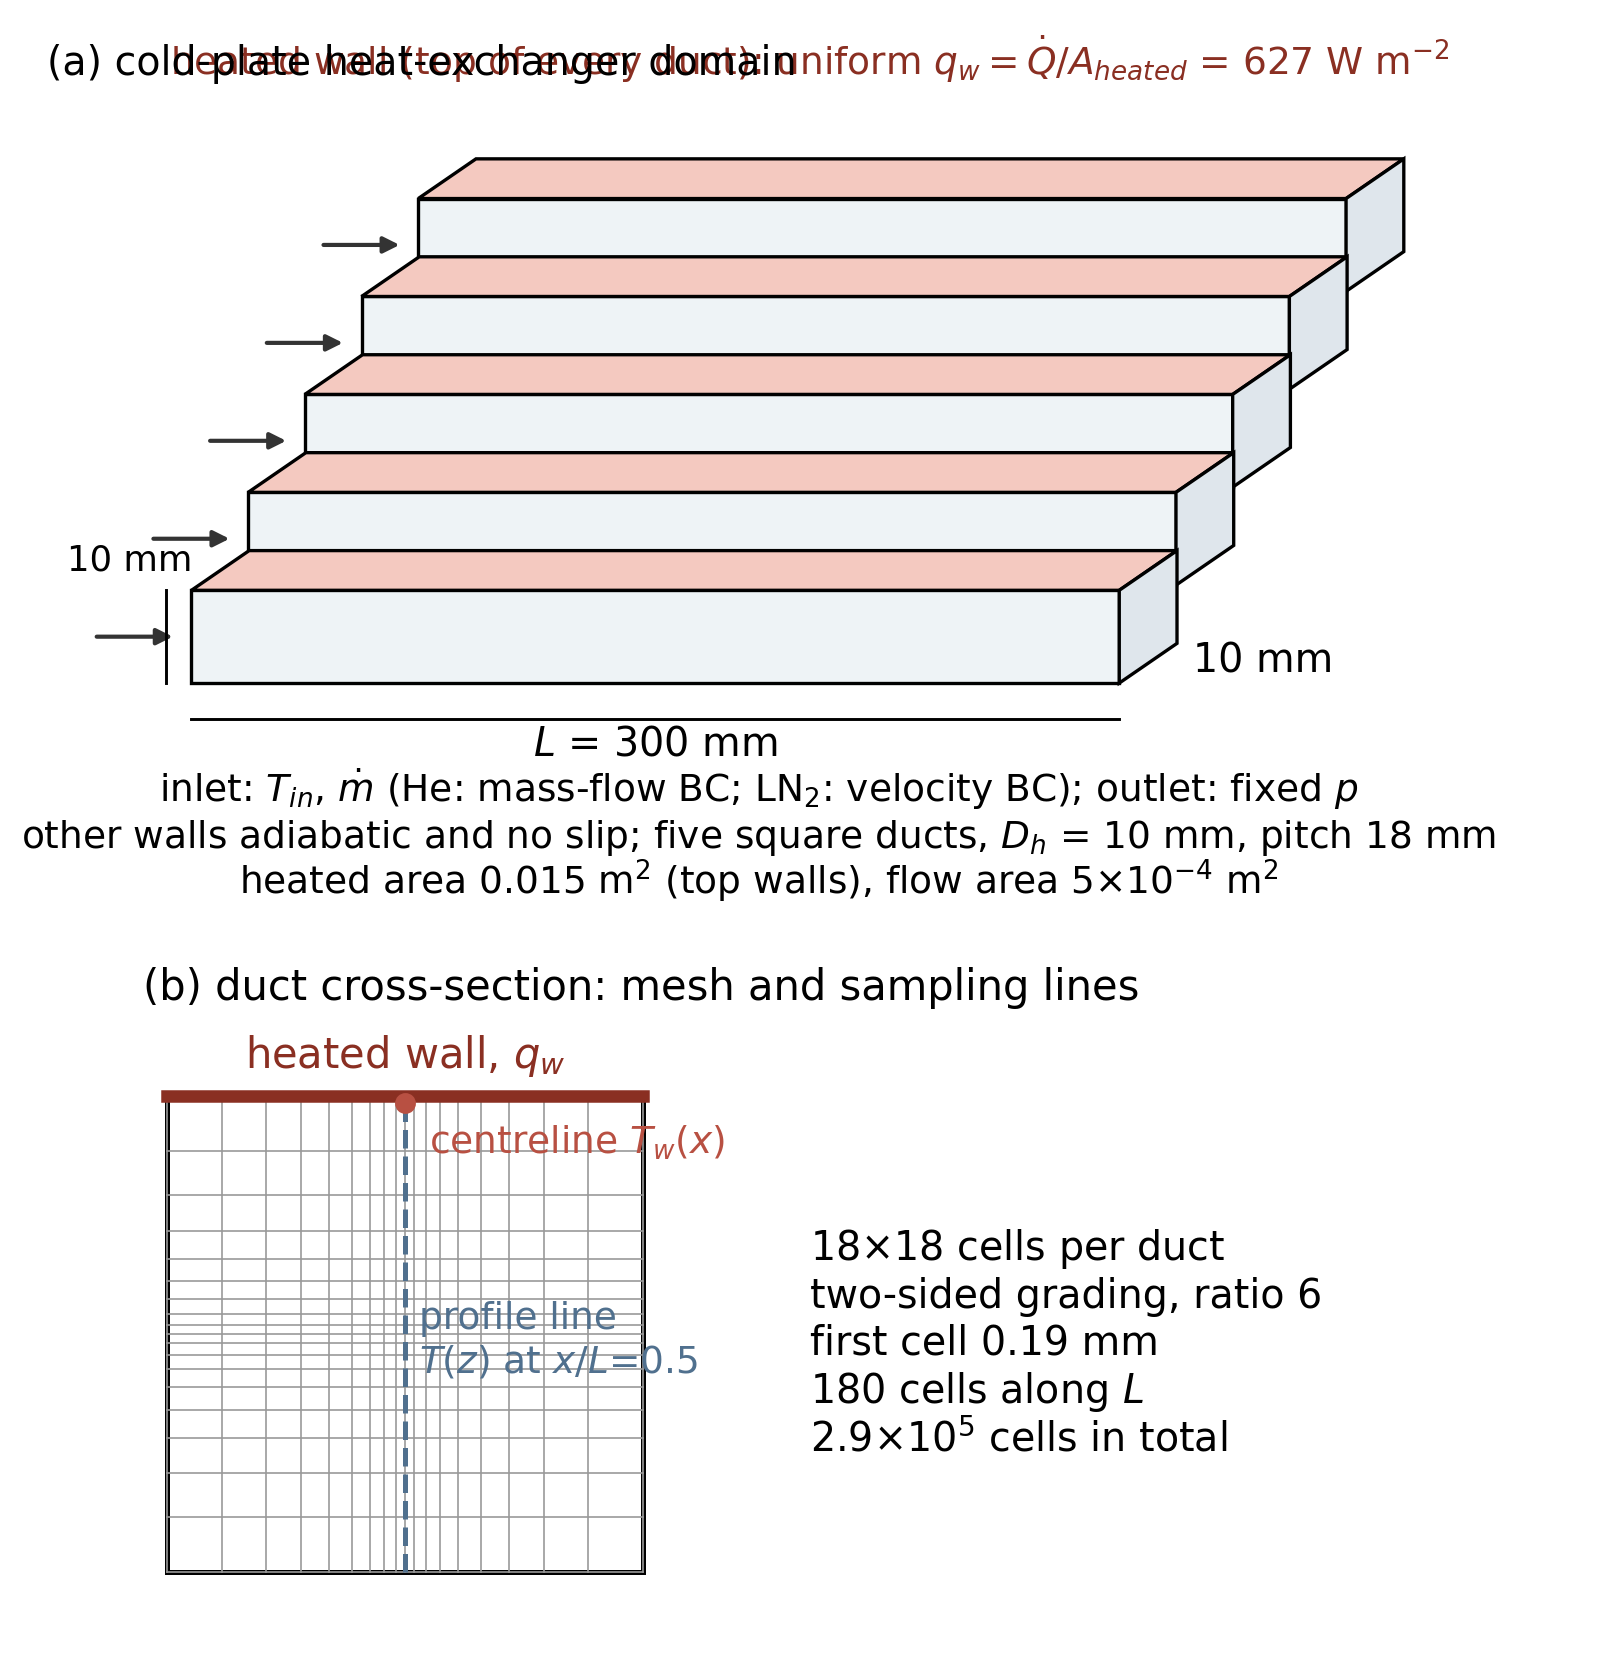
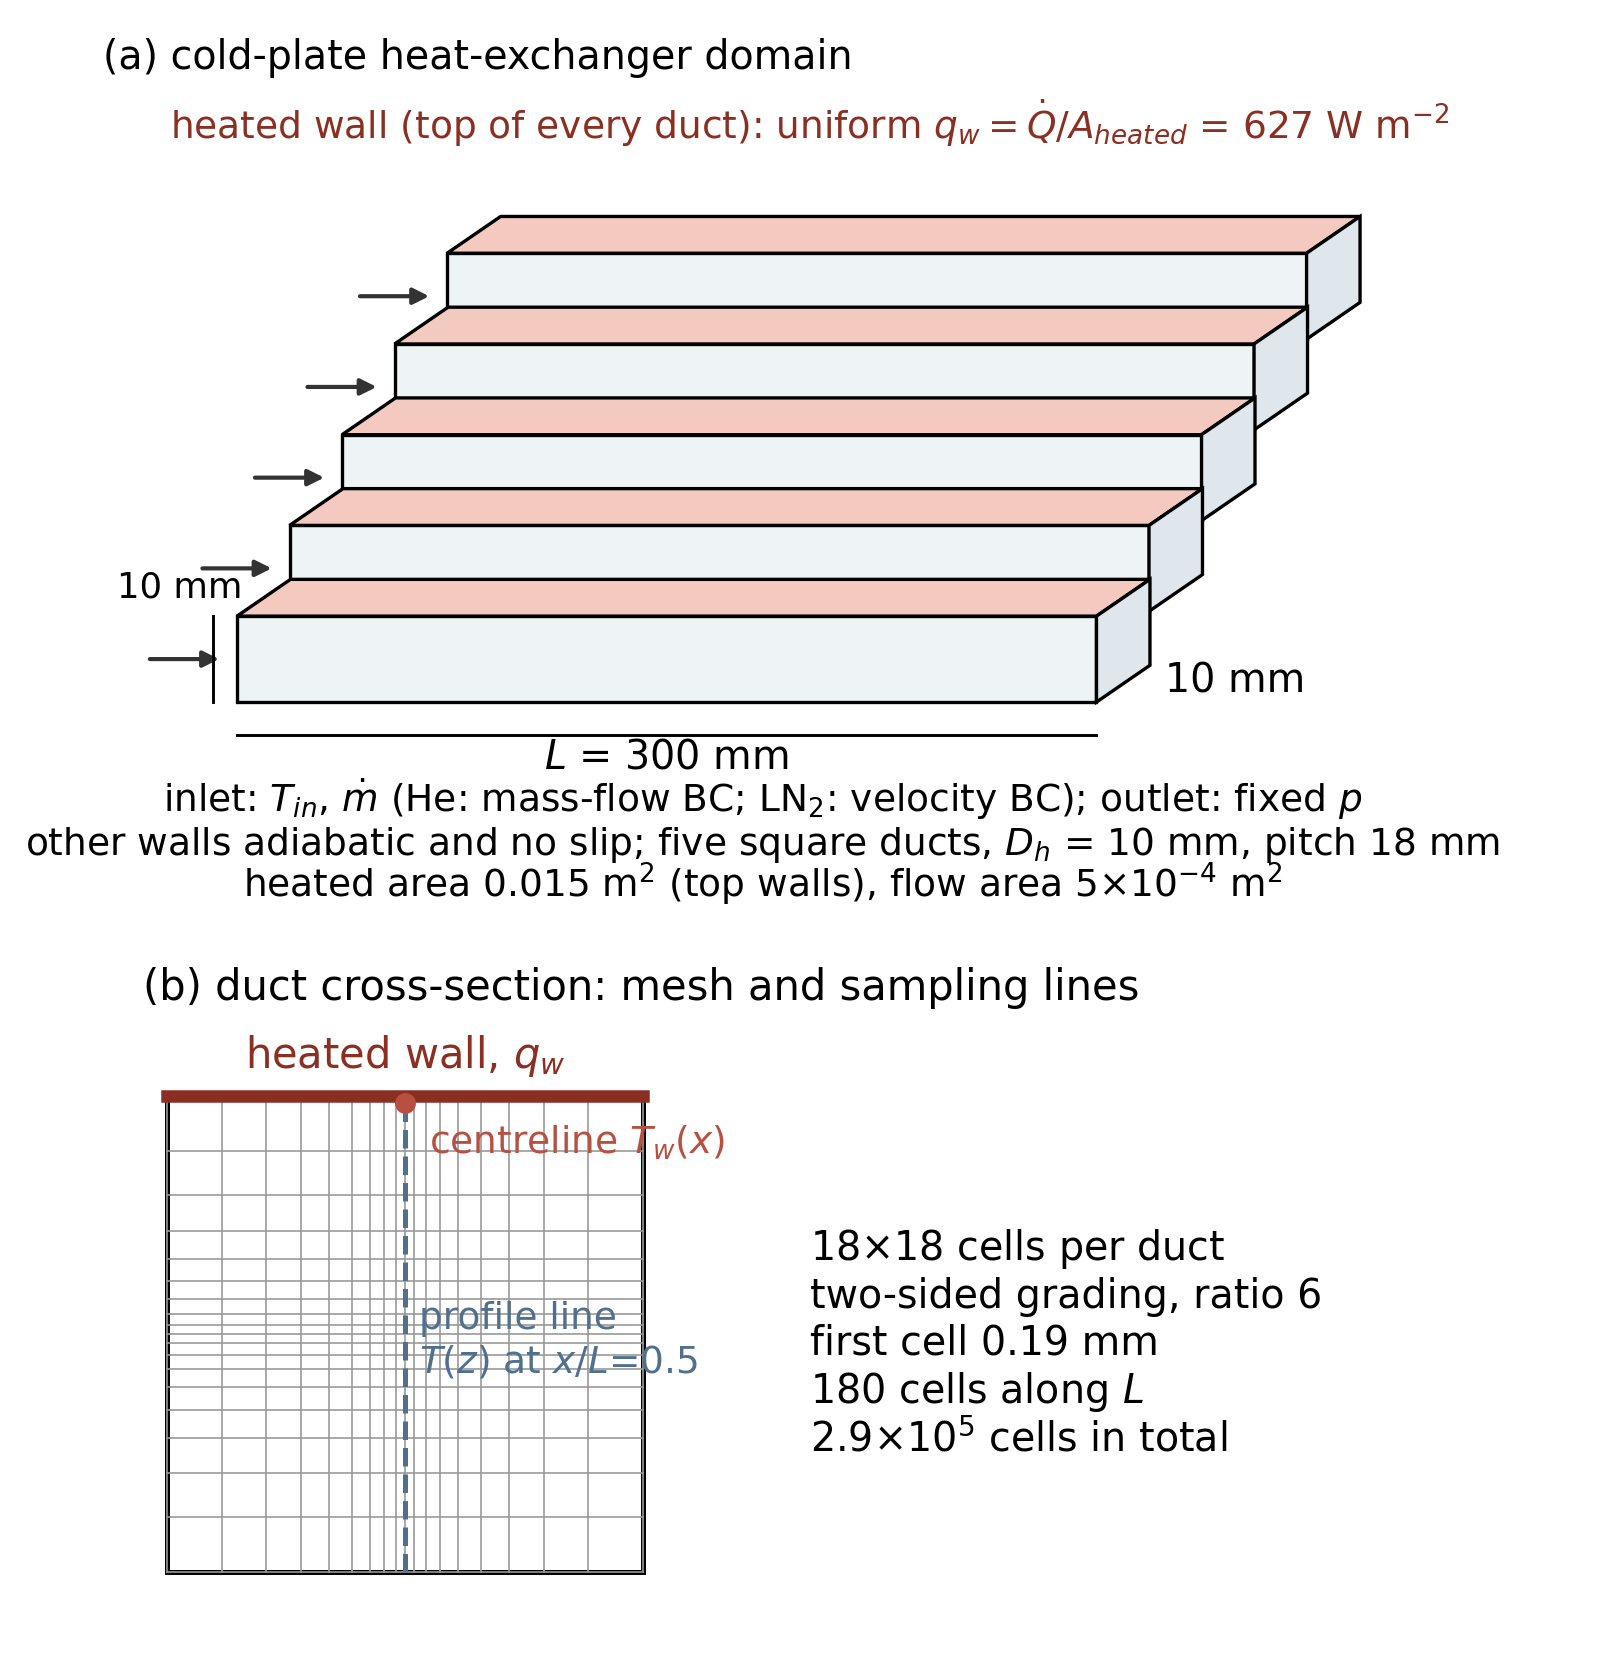
v2: figure 5 title placement

Changed region(s): [[0.0, 0.031, 0.9259, 0.5571]]

diff --git a/scripts/fig_illustrations.py b/scripts/fig_illustrations.py
@@ -89,7 +89,7 @@ fig.savefig(os.path.join(FIG, 'figA_cryostat_routes.png'), dpi=300, bbox_inches=
 
 # ---------------------------------------------------------------- Fig B: cold-plate geometry
 fig = plt.figure(figsize=(5.4, 5.6))
-ax = fig.add_axes([0.02, 0.44, 0.96, 0.54]); ax.set_xlim(-1.5, 13.5); ax.set_ylim(-2.5, 6.3); ax.axis('off'); ax.set_aspect('equal')
+ax = fig.add_axes([0.02, 0.44, 0.96, 0.54]); ax.set_xlim(-1.5, 13.5); ax.set_ylim(-2.5, 7.0); ax.axis('off'); ax.set_aspect('equal')
 # oblique projection of 5 ducts: length L along x (foreshortened), width along y
 L, W, H, dx, dy = 9.0, 0.9, 0.9, 1.4, 0.7   # dx,dy = oblique offsets for depth
 def duct(x0, y0, col):
@@ -122,7 +122,7 @@ ax.plot([0, L], [-0.35, -0.35], color='k', lw=0.7); ax.text(L / 2, -0.7, '$L$ = 
 ax.plot([-0.25, -0.25], [0, H], color='k', lw=0.7); ax.text(-0.6, 1.02, '10 mm', ha='center', va='bottom', fontsize=8.5)
 ax.plot([L + 0.15, L + 0.15 + dx * 0.4], [H + 0.15, H + 0.15 + dy * 0.55], color='k', lw=0.7); ax.text(L + 0.72, 0.1, '10 mm', fontsize=9.5)
 ax.text(5.5, -2.05, 'heated area 0.015 m$^2$ (top walls), flow area 5$\\times$10$^{-4}$ m$^2$', ha='center', fontsize=9)
-ax.text(-1.4, 6.2, '(a) cold-plate heat-exchanger domain', fontsize=9.5, va='top')
+ax.text(-1.4, 6.95, '(a) cold-plate heat-exchanger domain', fontsize=9.5, va='top')
 # (b) cross-section with graded mesh + sampling lines
 ax2 = fig.add_axes([0.08, 0.05, 0.34, 0.34]); ax2.set_aspect('equal'); ax2.set_xlim(-0.05, 1.05); ax2.set_ylim(-0.05, 1.15); ax2.axis('off')
 n = 18; r = 6 ** (1 / 8)
